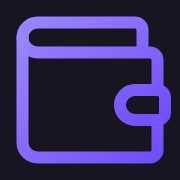
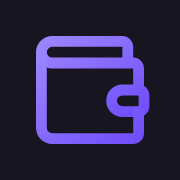
feat: menu mobile flottant iOS, onboarding centre et icone plus aeree
- Barre de navigation mobile refondue facon iOS : pilule flottante arrondie,
  verre depoli, item actif surligne, posee au-dessus de l'indicateur home
  (safe-area). FAB remonte pour degager la barre.
- Onboarding affiche en plein ecran centre verticalement, sans le chrome de
  l'app (header/mois/nav) qui n'a pas encore de sens, avec une sortie
  "Se deconnecter". Corrige l'ecran post-login mal centre sur iOS.
- Repli de hauteur .min-h-app (100vh puis 100dvh) sur l'app et le login pour
  un centrage fiable sur tous les iOS.
- Icone d'app (apple-touch-icon) : glyphe reduit a 72%, plus de marge, l'arrondi
  iOS ne rogne plus le wallet.

diff --git a/app/src/components/layout/AppShell.tsx b/app/src/components/layout/AppShell.tsx
@@ -7,6 +7,7 @@ import { OnboardingPage } from '@/pages/OnboardingPage'
 import { useThemeController } from '@/hooks/useTheme'
 import { useRealtimeSync } from '@/hooks/useRealtimeSync'
 import { useBootstrap } from '@/lib/data'
+import { supabase } from '@/lib/supabase'
 
 export function AppShell() {
   useThemeController()
@@ -16,17 +17,35 @@ export function AppShell() {
 
   // Etat vide : aucun compte -> onboarding (l'etape 1 seede les categories,
   // l'etape 2 cree le compte ; on reste sur l'onboarding tant qu'aucun compte
-  // n'existe). La page Reglages reste accessible (deconnexion).
+  // n'existe). La page Reglages reste accessible (theme, deconnexion).
   const needsOnboarding = boot.data !== undefined && boot.data.accounts.length === 0
   const showOnboarding = needsOnboarding && pathname !== '/reglages'
 
+  // Onboarding = flow plein ecran, centre verticalement, SANS le chrome de l'app
+  // (header, mois, navigation) qui n'a pas encore de sens. Sortie discrete.
+  if (showOnboarding) {
+    return (
+      <div className="flex min-h-app flex-col bg-bg">
+        <main className="flex flex-1 items-center justify-center px-4 py-10">
+          <OnboardingPage />
+        </main>
+        <button
+          onClick={() => void supabase.auth.signOut()}
+          className="pb-[max(1rem,env(safe-area-inset-bottom))] pt-2 text-center text-[13px] font-medium text-soft transition-colors hover:text-ink"
+        >
+          Se déconnecter
+        </button>
+      </div>
+    )
+  }
+
   return (
-    <div className="min-h-dvh">
+    <div className="min-h-app">
       <Sidebar />
       <div className="lg:pl-64">
         <Header />
         <main className="mx-auto max-w-content px-4 pb-32 pt-6 lg:px-8 lg:pb-12">
-          {showOnboarding ? <OnboardingPage /> : <Outlet />}
+          <Outlet />
         </main>
       </div>
       <BottomNav />

diff --git a/app/src/components/layout/BottomNav.tsx b/app/src/components/layout/BottomNav.tsx
@@ -5,32 +5,35 @@ import { useTransactions } from '@/lib/queries'
 import { uncategorizedCount } from '@/lib/data'
 import { useUiStore } from '@/stores/ui'
 
+// Barre de navigation flottante facon iOS : pilule arrondie, verre depoli, posee
+// au-dessus de l'indicateur home (safe-area). Les gouttieres laterales laissent
+// passer les taps (pointer-events-none sur le conteneur, auto sur la barre).
 export function BottomNav() {
   const { data: txs } = useTransactions()
   const badge = txs ? uncategorizedCount(txs) : 0
 
   return (
-    <nav className="fixed inset-x-0 bottom-0 z-40 border-t border-line bg-surface/95 pb-safe backdrop-blur-md lg:hidden">
-      <div className="mx-auto grid h-16 max-w-md grid-cols-4">
+    <div className="pointer-events-none fixed inset-x-0 bottom-0 z-40 flex justify-center px-3 pb-[max(0.5rem,env(safe-area-inset-bottom))] lg:hidden">
+      <nav className="pointer-events-auto flex w-full max-w-md items-stretch gap-1 rounded-[26px] border border-line/70 bg-surface/85 p-1.5 shadow-[0_8px_30px_-6px_rgba(0,0,0,0.28)] backdrop-blur-xl">
         {NAV_ITEMS.map(({ to, label, icon: Icon }) => (
           <Link
             key={to}
             to={to}
-            className="relative flex min-h-[44px] flex-col items-center justify-center gap-1 text-soft transition-colors data-[status=active]:text-accent"
+            className="group relative flex min-h-[54px] flex-1 flex-col items-center justify-center gap-1 rounded-[20px] text-soft transition-colors duration-200 data-[status=active]:bg-accent/12 data-[status=active]:text-accent"
           >
             <span className="relative">
-              <Icon className="h-[22px] w-[22px]" />
+              <Icon className="h-[22px] w-[22px]" strokeWidth={2.1} />
               {to === '/transactions' && badge > 0 && (
                 <span className="absolute -right-2.5 -top-1.5 flex h-4 min-w-4 items-center justify-center rounded-full bg-warning px-1 text-[10px] font-bold text-white dark:text-bg tnum">
                   {badge}
                 </span>
               )}
             </span>
-            <span className="text-[10.5px] font-medium">{label}</span>
+            <span className="text-[10.5px] font-semibold leading-none">{label}</span>
           </Link>
         ))}
-      </div>
-    </nav>
+      </nav>
+    </div>
   )
 }
 
@@ -40,7 +43,7 @@ export function Fab() {
     <button
       onClick={() => setAddTxOpen(true)}
       aria-label="Ajouter une transaction"
-      className="fixed bottom-[calc(5rem+env(safe-area-inset-bottom))] right-4 z-40 flex h-14 w-14 items-center justify-center rounded-full bg-accent text-accentfg shadow-fab transition-transform active:scale-95 lg:hidden"
+      className="fixed right-4 bottom-[calc(6.5rem+env(safe-area-inset-bottom))] z-40 flex h-14 w-14 items-center justify-center rounded-full bg-accent text-accentfg shadow-fab transition-transform active:scale-95 lg:hidden"
     >
       <Plus className="h-6 w-6" />
     </button>

diff --git a/app/src/styles/globals.css b/app/src/styles/globals.css
@@ -51,6 +51,13 @@
   .pb-safe {
     padding-bottom: env(safe-area-inset-bottom);
   }
+
+  /* Hauteur pleine avec repli : 100dvh sur les navigateurs recents (barre
+     dynamique iOS), 100vh sinon. Evite les ecrans "non centres" sur iOS. */
+  .min-h-app {
+    min-height: 100vh;
+    min-height: 100dvh;
+  }
 }
 
 /* Transition douce lors du changement de theme ou de mode */

diff --git a/app/src/pages/LoginPage.tsx b/app/src/pages/LoginPage.tsx
@@ -88,7 +88,7 @@ export function LoginPage() {
   }
 
   return (
-    <div className="flex min-h-dvh items-center justify-center bg-bg px-4">
+    <div className="flex min-h-app items-center justify-center bg-bg px-4 py-8">
       <div className="w-full max-w-sm">
         <div className="mb-6 flex flex-col items-center gap-3 text-center">
           <span className="flex h-12 w-12 items-center justify-center rounded-2xl bg-accent text-accentfg">